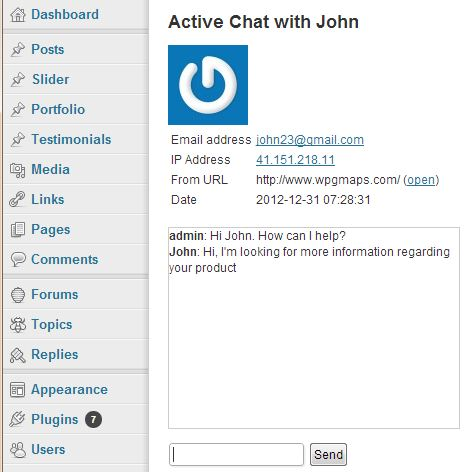
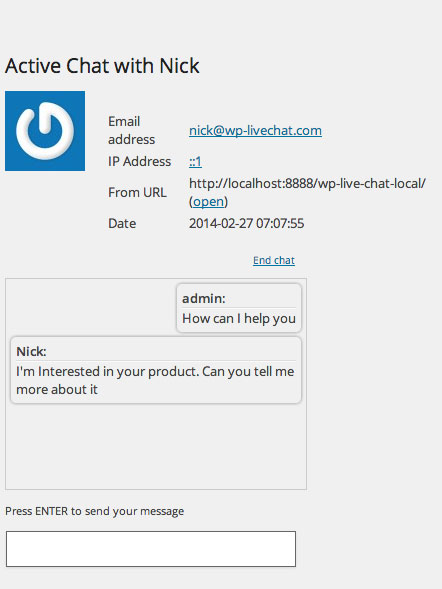
Upload Version 3.03 again as it didn't the first time
git-svn-id: https://plugins.svn.wordpress.org/wp-live-chat-support/trunk@866005 b8457f37-d9ea-0310-8a92-e5e31aec5664

diff --git a/css/wplcstyle.css b/css/wplcstyle.css
@@ -1,6 +1,9 @@
 #wp-live-chat textarea {
     width: 100%;
     height: 100px;
+    -webkit-box-sizing: border-box;
+    -moz-box-sizing: border-box;
+     box-sizing: border-box; 
 }
 
 #wplc_chatbox {

diff --git a/wp-live-chat-support.php b/wp-live-chat-support.php
@@ -3,7 +3,7 @@
 Plugin Name: WP Live Chat Support
 Plugin URI: http://www.wp-livechat.com
 Description: The easiest to use website live chat plugin. Let your visitors chat with you and increase sales conversion rates with WP Live Chat Support. No third party connection required!
-Version: 3.02
+Version: 3.03
 Author: WP-LiveChat
 Author URI: http://www.wp-livechat.com
 */
@@ -17,7 +17,7 @@ global $wplc_tblname_chats;
 global $wplc_tblname_msgs;
 $wplc_tblname_chats = $wpdb->prefix . "wplc_chat_sessions";
 $wplc_tblname_msgs = $wpdb->prefix . "wplc_chat_msgs";
-$wplc_version = "3.02";
+$wplc_version = "3.03";
 
 require_once (plugin_dir_path( __FILE__ )."functions.php");
 add_action('wp_ajax_wplc_admin_set_transient', 'wplc_action_callback');
@@ -488,11 +488,17 @@ function wplc_draw_chat_area($cid) {
 
 function wplc_return_admin_chat_javascript($cid) {
         $ajax_nonce = wp_create_nonce("wplc");
+        if(function_exists("wplc_pro_get_admin_picture")){
+                $src = wplc_pro_get_admin_picture();
+                if($src){
+                    $image = "<img src=".$src." width='20px' id='wp-live-chat-2-img'/>";
+                }
+            }
     ?>
     <script type="text/javascript">
         jQuery(document).ready(function() {
 
-
+            var wplc_image = "<?php echo $image ?>";
             var wplc_ajaxurl = '<?php echo plugins_url('/ajax.php', __FILE__); ?>';
             var wplc_nonce = '<?php echo $ajax_nonce; ?>';
             var wplc_gcid = '<?php echo $cid; ?>';
@@ -546,7 +552,7 @@ function wplc_return_admin_chat_javascript($cid) {
                 jQuery("#wplc_admin_chatmsg").val('');
                 
                 
-                jQuery("#admin_chat_box_area_"+wplc_cid).append("<strong>"+wplc_name+"</strong>: "+wplc_chat+"<br />");
+                jQuery("#admin_chat_box_area_"+wplc_cid).append("<span class='wplc-admin-message'>"+wplc_image+" <strong>"+wplc_name+"</strong>:<hr/>"+wplc_chat+"</span><br /><div class='wplc-clear-float-message'></div>");
                 var height = jQuery('#admin_chat_box_area_'+wplc_cid)[0].scrollHeight;
                 jQuery('#admin_chat_box_area_'+wplc_cid).scrollTop(height);
                 

diff --git a/functions.php b/functions.php
@@ -328,7 +328,7 @@ function wplc_return_admin_chat_messages($cid) {
         $msg = stripslashes($result->msg);
         //$timestamp = strtotime($result->timestamp);
         //$timeshow = date("H:i",$timestamp);
-        $msg_hist .= "<strong>$from</strong>: $msg<br />";
+        $msg_hist .= "<span class='wplc-user-message'><strong>$from</strong>:<hr/> $msg</span><br /><div class='wplc-clear-float-message'></div>";
 
     }
 
